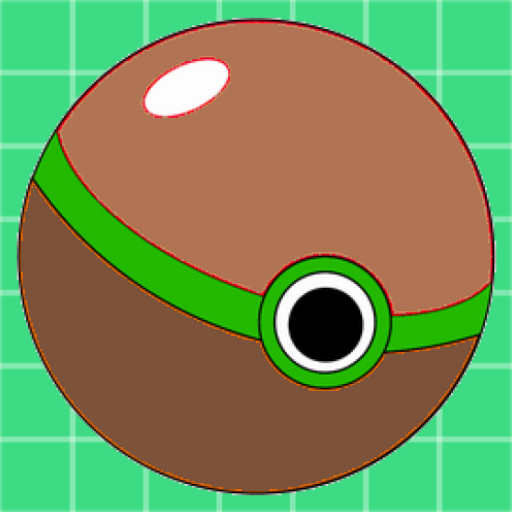
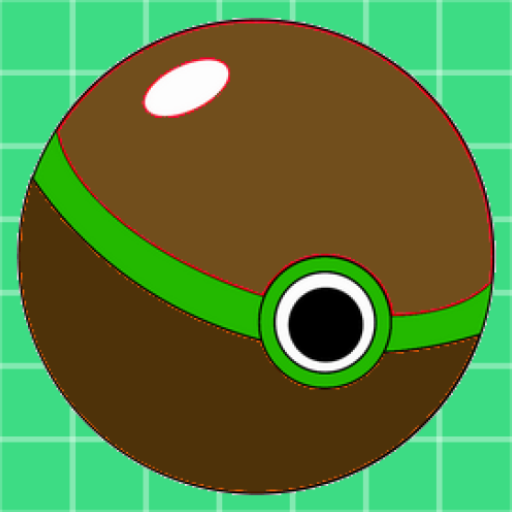
Delete (working)

diff --git a/HarjoitusTyo/app/src/main/java/com/example/lutemongame/MainActivity.java b/HarjoitusTyo/app/src/main/java/com/example/lutemongame/MainActivity.java
@@ -53,7 +53,7 @@ public class MainActivity extends AppCompatActivity {
         getSupportFragmentManager().beginTransaction()
                 .replace(R.id.frameMain, new HomeFragment())
                 .commit();
-        //createTestLutemons();
+        // createTestLutemons();
     }
 
     @Override
@@ -111,7 +111,6 @@ public class MainActivity extends AppCompatActivity {
     }
 
     public void createTestLutemons(){
-        // Creating default Lutemons for testing
         Home Storage = Home.getInstance();
         Storage.createLutemon(new Green("Goblin"));
         Storage.createLutemon(new Orange("Orangutan"));
@@ -121,12 +120,6 @@ public class MainActivity extends AppCompatActivity {
         Storage.createLutemon(new Black("Panther"));
         Storage.createLutemon(new Pink("Flamingo"));
         Storage.createLutemon(new White("Winter"));
-        Storage.sendToBattleField(1);
-        Storage.sendToBattleField(2);
-        Storage.sendToBattleField(3);
-        Storage.sendToBattleField(4);
-        Storage.sendToTrain(5);
-        Storage.sendToTrain(6);
     }
 
     private void loadData(){
@@ -134,7 +127,7 @@ public class MainActivity extends AppCompatActivity {
         int count = Home.getInstance().getLutemons().size();
         System.out.println("Count of Lutemons: " + count);
         Home.getInstance().listLutemons();
-        if (getHighestID() != -1) Lutemon.setIdCounter(getHighestID());
+        if (getHighestID() != -1) Lutemon.setIdCounter(getHighestID() + 1);
 
         TrainingArea.getInstance().loadLutemon(this, "gym.data");
         BattleField.getInstance().loadLutemon(this, "arena.data");

diff --git a/HarjoitusTyo/app/src/main/java/com/example/lutemongame/Game/Creatures/Lutemon.java b/HarjoitusTyo/app/src/main/java/com/example/lutemongame/Game/Creatures/Lutemon.java
@@ -72,14 +72,14 @@ public class Lutemon implements Serializable {
             def = 3;
             health = 12; maxHealth = 12;
             color = "Black";
-            image = R.mipmap.ic_lutemon_black_foreground;
+            image = R.mipmap.ic_lutemon_brown_foreground;
         }
         else {
             atk = 10;
             def = 3;
             health = 20; maxHealth = 20;
             color = "Black";
-            image = R.mipmap.ic_lutemon_black_foreground;
+            image = R.mipmap.ic_lutemon_brown_foreground;
         }
     }
 
@@ -132,7 +132,7 @@ public class Lutemon implements Serializable {
             System.out.println("Thread error");
             throw new RuntimeException(e);
         }*/
-        return String.format("%s (%d/%d) | %s (%d/%d)", attacker.name, damage,attacker.maxHealth, name, health, maxHealth);
+        return String.format("%s (%d) | %s (%d/%d)", attacker.name, damage, name, health, maxHealth);
     }
 
     /**
@@ -244,18 +244,6 @@ public class Lutemon implements Serializable {
     public void addLoss(){
         losses++;
     }
-
-// --Commented out by Inspection START (18.4.2023 12.20):
-//    /**
-//     * Sets the Lutemon as if it was just created
-//     */
-//    public void resetLutemon(){
-//        wins = 0;
-//        losses = 0;
-//        experience = 0;
-//        heal();
-//    }
-// --Commented out by Inspection STOP (18.4.2023 12.20)
 
     /**
      * true if Lutemon has been selected in a RecyclerView

diff --git a/HarjoitusTyo/app/src/main/java/com/example/lutemongame/Game/Fragments/CreateLutemonFragment.java b/HarjoitusTyo/app/src/main/java/com/example/lutemongame/Game/Fragments/CreateLutemonFragment.java
@@ -61,6 +61,11 @@ public class CreateLutemonFragment extends Fragment {
         }
         Lutemon lutemon;
         String name = lutemon_name.getText().toString();
+        if (name.isEmpty()){
+            Toast t = Toast.makeText(getActivity(), "Give a name for your Lutemon", Toast.LENGTH_SHORT);
+            t.show();
+            return;
+        }
         switch (rg.getCheckedRadioButtonId()) {
             case R.id.rbWhite:
                 lutemon = new White(name);

diff --git a/HarjoitusTyo/app/src/main/java/com/example/lutemongame/Game/Areas/BattleField.java b/HarjoitusTyo/app/src/main/java/com/example/lutemongame/Game/Areas/BattleField.java
@@ -150,12 +150,6 @@ public class BattleField extends Storage{
         }
     }
 
-    public boolean sequence(Lutemon attacker, Lutemon defender){
-        defender.defense(attacker);
-        if (defender.isAlive()) return false;
-        return true;
-    }
-
 
     /**
      * Handles end of battle

diff --git a/HarjoitusTyo/app/src/main/java/com/example/lutemongame/ShowLutemonAdapter.java b/HarjoitusTyo/app/src/main/java/com/example/lutemongame/ShowLutemonAdapter.java
@@ -85,6 +85,7 @@ public class ShowLutemonAdapter extends RecyclerView.Adapter<LutemonViewHolder> 
             dialog.dismiss();
             Toast toast = Toast.makeText(context, "Lutemon deleted", Toast.LENGTH_SHORT);
             toast.show();
+            notifyDataSetChanged();
         });
 
 

diff --git a/HarjoitusTyo/app/src/main/java/com/example/lutemongame/Game/Areas/Storage.java b/HarjoitusTyo/app/src/main/java/com/example/lutemongame/Game/Areas/Storage.java
@@ -162,4 +162,7 @@ public abstract class Storage implements Serializable {
         return max;
     }
 
+    protected void emptyStorage(){
+        lutemons = new HashMap<>();
+    }
 }
